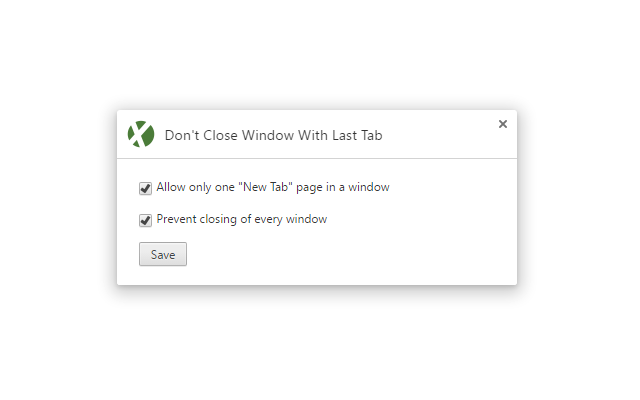
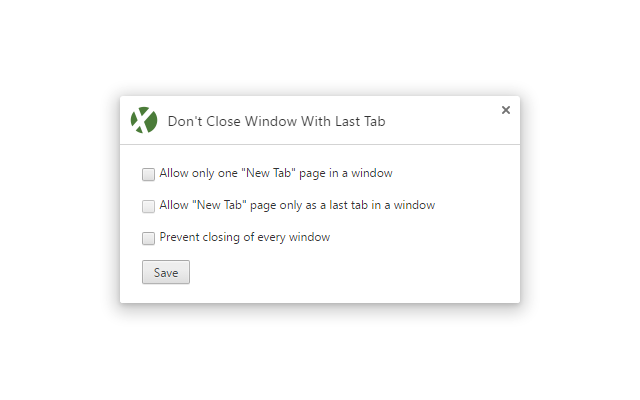
Option to protect first opened window

Changed region(s): [[0.1562, 0.27, 0.8438, 0.78], [0.2188, 0.21, 0.7812, 0.24], [0.8125, 0.24, 0.8438, 0.27]]

diff --git a/src/background.js b/src/background.js
@@ -1,10 +1,12 @@
 var newTabUrl = "chrome://newtab/";
 
 var working = false;
+var first_window_id = null;
 
 var single_new_tab = false;
-var every_window = false;
 var new_tab_last = false;
+var first_window = true;
+var every_window = false;
 
 var debug = false;
 
@@ -17,6 +19,9 @@ function handleEvent() {
 			chrome.tabs.query({"windowId": window.id, "url": newTabUrl}, function(window, windowNumber, windowNewTabs) {
 				//chrome.tabs.query({"windowId": window.id, "pinned": true, "url": newTabUrl}, function(window, windowNumber, windowNewTabs, windowPinnedNewTabs) {
 				chrome.tabs.query({"windowId": window.id, "pinned": true}, function(window, windowNumber, windowNewTabs, windowPinnedTabs) {
+
+					if (first_window_id == null)
+						first_window_id = window.id;
 
 					if (window.tabs.length == 2) {
 						chrome.tabs.get(window.tabs[0].id, function(window, windowNumber, windowNewTabs, windowPinnedTabs, windowFirstTab) {
@@ -32,34 +37,38 @@ function handleEvent() {
 					}
 
 					// create the single pinned tab if there's none
-					if ((every_window || windows.length == 1) && window.tabs.length < 2 && windowPinnedTabs.length < 1 && !working) {
+					if ((every_window || windows.length == 1 || (first_window && first_window_id == window.id)) && window.tabs.length < 2 && windowPinnedTabs.length < 1 && !working) {
 						working = true;
 						if (debug) console.log("creating pinned tab");
 						chrome.tabs.create({"windowId": window.id, "index": 0, "pinned": true, "active": false, "url": newTabUrl}, function(tab) {
 							working = false;
+							first_window_id = window.id;
 						});
 					}
 
 					// open new tab if there's only single pinned tab
-					if ((every_window || windows.length == 1) && window.tabs.length == 1 && windowPinnedTabs.length == 1 && !working) {
+					if ((every_window || windows.length == 1 || (first_window && first_window_id == window.id)) && window.tabs.length == 1 && windowPinnedTabs.length == 1 && !working) {
 						working = true;
 						if (debug) console.log("creating tab");
-						chrome.tabs.create({"windowId": window.id, "url": newTabUrl}, function(tab) {
+						chrome.tabs.create({"windowId": window.id, "url": newTabUrl}, function(window, tab) {
 							working = false;
-						});
+							first_window_id = window.id;
+						}.bind(null, window));
 					}
 
 					// remove pinned tab if there's enough open tabs
-					if ((every_window || windows.length == 1) && window.tabs.length > 2 && windowPinnedTabs.length < window.tabs.length && windowPinnedTabs.length >= 1 && !working) {
+					if ((every_window || windows.length == 1 || (first_window && first_window_id == window.id)) && window.tabs.length > 2 && windowPinnedTabs.length < window.tabs.length && windowPinnedTabs.length >= 1 && !working) {
 						working = true;
 						if (debug) console.log("removing pinned tab 1");
 						chrome.tabs.remove(windowPinnedTabs[0].id, function(tab) {
 							working = false;
+							if (chrome.runtime.lastError !== undefined && chrome.runtime.lastError.message.indexOf('user may be dragging a tab') !== -1)
+								setTimeout(function() { handleEvent(); }, 700);
 						});
 					}
 
 					// unpin single pinned tab if there's another window
-					if (!every_window && windows.length > 1 && window.tabs.length == 1 && windowPinnedTabs.length == 1 && !working) {
+					if (!every_window && windows.length > 1 && !(first_window && first_window_id == window.id) && window.tabs.length == 1 && windowPinnedTabs.length == 1 && !working) {
 						working = true;
 						if (debug) console.log("unpin pinned tab");
 						chrome.tabs.update(windowPinnedTabs[0].id, {"pinned": false}, function(tab) {
@@ -68,7 +77,7 @@ function handleEvent() {
 					}
 
 					// remove pinned tab if 1st window has at least one regular page and new window is openning (ctrl+n)
-					if (!every_window && windows.length > 1 && window.tabs.length == 2 && windowPinnedTabs.length == 1 && !working) {
+					if (!every_window && windows.length > 1 && !(first_window && first_window_id == window.id) && window.tabs.length == 2 && windowPinnedTabs.length == 1 && !working) {
 						working = true;
 						if (debug) console.log("removing pinned tab 2");
 						chrome.tabs.remove(windowPinnedTabs[0].id, function(tab) {
@@ -85,14 +94,14 @@ function handleEvent() {
 						});
 					}
 
-					if (debug) console.log(new_tab_last);
-
 					// prevent blank new tab page(s) before actual tabs with loaded pages 
 					if (new_tab_last && windowPinnedTabs.length == 0 && windowNewTabs.length >= 1 && window.tabs[window.tabs.length-1].id != windowNewTabs[0].id && !working) {
 						working = true;
 						if (debug) console.log("removing tab 2");
 						chrome.tabs.remove(windowNewTabs[0].id, function(tab) {
 							working = false;
+							if (chrome.runtime.lastError !== undefined && chrome.runtime.lastError.message.indexOf('user may be dragging a tab') !== -1)
+								setTimeout(function() { handleEvent(); }, 700);
 						});
 					}
 
@@ -105,12 +114,14 @@ function handleEvent() {
 function init() {
 	chrome.storage.sync.get({
 		single_new_tab: false,
+		new_tab_last: false,
+		first_window: false,
 		every_window: false,
-		new_tab_last: false
 	}, function(items) {
 		single_new_tab = items.single_new_tab;
-		every_window = items.every_window;
 		new_tab_last = items.new_tab_last;
+		first_window = items.first_window;
+		every_window = items.every_window;
 	});
 
 	chrome.storage.onChanged.addListener(function(changes, namespace) {
@@ -119,10 +130,12 @@ function init() {
 			var storageChange = changes[key];
 			if (key == "single_new_tab")
 				single_new_tab = storageChange.newValue;
-			else if (key == "every_window")
-				every_window = storageChange.newValue;
 			else if (key == "new_tab_last")
 				new_tab_last = storageChange.newValue;
+			else if (key == "first_window")
+				first_window = storageChange.newValue;
+			else if (key == "every_window")
+				every_window = storageChange.newValue;
 		}
 		handleEvent();
 	});

diff --git a/src/options.js b/src/options.js
@@ -1,12 +1,16 @@
 // Saves options to chrome.storage.sync.
 function save_options() {
   var single_new_tab = document.getElementById('single_new_tab').checked;
-  var every_window = document.getElementById('every_window').checked;
   var new_tab_last = document.getElementById('new_tab_last').checked;
+  var any_window = document.getElementById('any_window').checked;
+  var first_window = document.getElementById('first_window').checked;
+  var every_window = document.getElementById('every_window').checked;
   chrome.storage.sync.set({
     single_new_tab: single_new_tab,
+    new_tab_last: new_tab_last,
+    any_window: any_window,
+    first_window: first_window,
     every_window: every_window,
-    new_tab_last: new_tab_last
   }, function() {
     var status = document.getElementById('status');
     status.textContent = 'Options saved.';
@@ -20,11 +24,15 @@ function restore_options() {
   chrome.storage.sync.get({
     single_new_tab: false,
     new_tab_last: false,
+    any_window: true,
+    first_window: false,
     every_window: false
   }, function(items) {
     document.getElementById('single_new_tab').checked = items.single_new_tab;
-    document.getElementById('every_window').checked = items.every_window;
     document.getElementById('new_tab_last').checked = items.new_tab_last;
+    document.getElementById('any_window').checked = items.any_window;
+    document.getElementById('first_window').checked = items.first_window;
+    document.getElementById('every_window').checked = items.every_window;
 
     toggle_new_tab_last();
   });

diff --git a/src/options.html b/src/options.html
@@ -4,7 +4,8 @@
   <title>Don't Close Window With Last Tab</title>
   <style>
     body { padding: 5px; }
-    label { display: block; padding-bottom: 15px; }
+    label { display: block; padding-bottom: 5px; padding-top: 5px; }
+    #status { padding-bottom: 7px; padding-top: 7px; }
   </style>
 </head>
 
@@ -19,9 +20,19 @@
     Allow "New Tab" page only as a last tab in a window
   </label>
 
+  <div style="height: 10px;"></div>
+  
   <label>
-    <input type="checkbox" id="every_window">
-    Prevent closing of every window
+  <input type="radio" name="prevent_closing" id="any_window" value="any_window">
+    Prevent closing of any last window (most subtle)
+  </label>
+  <label>
+    <input type="radio" name="prevent_closing" id="first_window" value="first_window">
+    Prevent closing of first opened window
+  </label>
+  <label>
+    <input type="radio" name="prevent_closing" id="every_window" value="every_window">
+    Prevent closing of every window (breaks tab dragging between windows)
   </label>
 
   <div id="status"></div>
